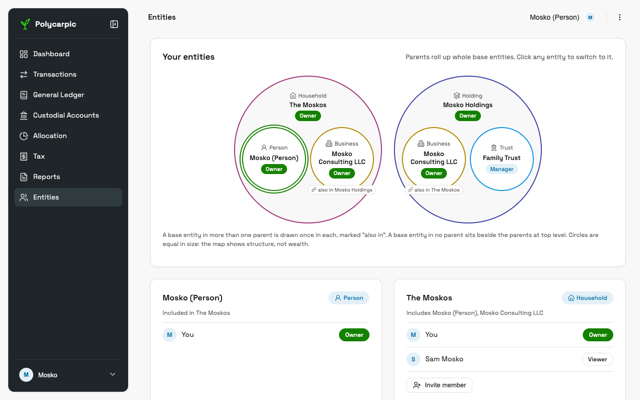
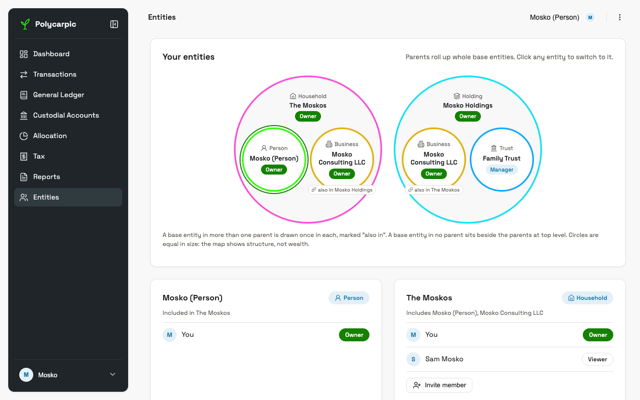
docs(design): categorical palette redone in literal brand colours
Principal ruling: the first palette read too dark and muted. Slots 1-2
are now --brand and --brand-2, unthemed; the other five match their
brightness and intensity (OKLCH L 0.71-0.84, C 0.14-0.26). Light-mode
3:1 surface contrast and the lightness band are waived and compensated
by a label, a hairline or gap, and dark label ink on every mark. CVD
separation still passes: adjacent 12.0, all-pairs over slots 1-5 8.3.

Claude-Session: https://claude.ai/code/session_01ShccjJZnprqscE4Jea1MEf

diff --git a/docs/DESIGN/tokens.html b/docs/DESIGN/tokens.html
@@ -244,44 +244,45 @@
 
 <section id="categorical" data-section="categorical">
   <h2>7. Categorical (identity, not magnitude)</h2>
-  <p class="section-hint group-note">Seven hues in a fixed order plus a neutral Other, for charts where colour says <em>which thing</em>: treemaps, Pack, Sankey, grouped and stacked bars. The <code>--chart</code> ramp above stays the magnitude ramp. Slot 1 is the brand green and slot 2 the brand sky blue; the other five sit around them on the wheel and skip the status hues (red, orange, gain green). Each slot has a <code>-foreground</code> label ink that clears AA on the fill. Figures are contrast vs <code>--background</code> / <code>--card</code> in that mode, then the label ink and its ratio. Validated with the dataviz skill's <code>validate_palette.js</code>, both modes — see design-system-spec.md § Categorical palette.</p>
+  <p class="section-hint group-note">Seven hues in a fixed order plus a neutral Other, for charts where colour says <em>which thing</em>: treemaps, Pack, Sankey, grouped and stacked bars. The <code>--chart</code> ramp above stays the magnitude ramp. Slot 1 is <code>--brand</code> and slot 2 is <code>--brand-2</code>, literally; the other five match their brightness and intensity and skip the status hues (red, orange, gain green). The fills are the same in both modes; each slot has a dark <code>-foreground</code> label ink that clears AA on the fill. Figures are contrast vs <code>--background</code> / <code>--card</code> in that mode, then the label ink and its ratio. Validated with the dataviz skill's <code>validate_palette.js</code>, both modes — see design-system-spec.md § Categorical palette.</p>
   <table class="token-table">
     <thead><tr><th>Token</th><th>Light</th><th>Dark</th><th>Fixed assignment</th></tr></thead>
     <tbody>
       <tr><td><code>--cat-1</code></td>
-        <td class="pair"><div class="mode"><span class="chip" style="background:#148100;color:#FFFFFF;display:flex;align-items:center;justify-content:center;font-size:0.7rem;font-weight:600">Aa</span><span class="hex">#148100 (4.75 / 5.04)</span><span class="hex">label white 5.04</span></div></td>
-        <td class="pair"><div class="mode"><span class="chip" style="background:#4BA341;color:#070808;display:flex;align-items:center;justify-content:center;font-size:0.7rem;font-weight:600">Aa</span><span class="hex">#4BA341 (6.32 / 6.09)</span><span class="hex">label dark 6.32</span></div></td>
-        <td>Green — brand anchor (= light <code>--primary</code>). Assets · Person · US Equity.</td></tr>
+        <td class="pair"><div class="mode"><span class="chip" style="background:#2CFF05;color:#1D1F20;box-shadow:inset 0 0 0 1px var(--border);display:flex;align-items:center;justify-content:center;font-size:0.7rem;font-weight:600">Aa</span><span class="hex">#2CFF05 (1.29 / 1.36)</span><span class="hex">label dark 12.15</span></div></td>
+        <td class="pair"><div class="mode"><span class="chip" style="background:#2CFF05;color:#070808;box-shadow:inset 0 0 0 1px var(--border);display:flex;align-items:center;justify-content:center;font-size:0.7rem;font-weight:600">Aa</span><span class="hex">#2CFF05 (14.72 / 14.18)</span><span class="hex">label dark 14.72</span></div></td>
+        <td>Neon green — <code>--brand</code>, literal. Assets · Person · US Equity.</td></tr>
       <tr><td><code>--cat-2</code></td>
-        <td class="pair"><div class="mode"><span class="chip" style="background:#0C96DF;color:#1D1F20;display:flex;align-items:center;justify-content:center;font-size:0.7rem;font-weight:600">Aa</span><span class="hex">#0C96DF (3.07 / 3.26)</span><span class="hex">label fg 5.08</span></div></td>
-        <td class="pair"><div class="mode"><span class="chip" style="background:#009EED;color:#070808;display:flex;align-items:center;justify-content:center;font-size:0.7rem;font-weight:600">Aa</span><span class="hex">#009EED (6.79 / 6.55)</span><span class="hex">label dark 6.79</span></div></td>
-        <td>Sky blue — brand anchor (= light <code>--chart-1</code>). Liabilities · Trust · Intl Equity.</td></tr>
+        <td class="pair"><div class="mode"><span class="chip" style="background:#05A9FF;color:#1D1F20;box-shadow:inset 0 0 0 1px var(--border);display:flex;align-items:center;justify-content:center;font-size:0.7rem;font-weight:600">Aa</span><span class="hex">#05A9FF (2.44 / 2.58)</span><span class="hex">label dark 6.40</span></div></td>
+        <td class="pair"><div class="mode"><span class="chip" style="background:#05A9FF;color:#070808;box-shadow:inset 0 0 0 1px var(--border);display:flex;align-items:center;justify-content:center;font-size:0.7rem;font-weight:600">Aa</span><span class="hex">#05A9FF (7.76 / 7.48)</span><span class="hex">label dark 7.76</span></div></td>
+        <td>Sky blue — <code>--brand-2</code>, literal. Liabilities · Trust · Intl Equity.</td></tr>
       <tr><td><code>--cat-3</code></td>
-        <td class="pair"><div class="mode"><span class="chip" style="background:#B18900;color:#1D1F20;display:flex;align-items:center;justify-content:center;font-size:0.7rem;font-weight:600">Aa</span><span class="hex">#B18900 (3.07 / 3.26)</span><span class="hex">label fg 5.08</span></div></td>
-        <td class="pair"><div class="mode"><span class="chip" style="background:#7E6100;color:#F2F2F3;display:flex;align-items:center;justify-content:center;font-size:0.7rem;font-weight:600">Aa</span><span class="hex">#7E6100 (3.43 / 3.31)</span><span class="hex">label fg 5.22</span></div></td>
+        <td class="pair"><div class="mode"><span class="chip" style="background:#E2B003;color:#1D1F20;box-shadow:inset 0 0 0 1px var(--border);display:flex;align-items:center;justify-content:center;font-size:0.7rem;font-weight:600">Aa</span><span class="hex">#E2B003 (1.90 / 2.01)</span><span class="hex">label dark 8.23</span></div></td>
+        <td class="pair"><div class="mode"><span class="chip" style="background:#E2B003;color:#070808;box-shadow:inset 0 0 0 1px var(--border);display:flex;align-items:center;justify-content:center;font-size:0.7rem;font-weight:600">Aa</span><span class="hex">#E2B003 (9.97 / 9.61)</span><span class="hex">label dark 9.97</span></div></td>
         <td>Gold. Equity · Business · Fixed Income.</td></tr>
       <tr><td><code>--cat-4</code></td>
-        <td class="pair"><div class="mode"><span class="chip" style="background:#A1367B;color:#FFFFFF;display:flex;align-items:center;justify-content:center;font-size:0.7rem;font-weight:600">Aa</span><span class="hex">#A1367B (5.95 / 6.31)</span><span class="hex">label white 6.31</span></div></td>
-        <td class="pair"><div class="mode"><span class="chip" style="background:#C6589C;color:#070808;display:flex;align-items:center;justify-content:center;font-size:0.7rem;font-weight:600">Aa</span><span class="hex">#C6589C (5.04 / 4.86)</span><span class="hex">label dark 5.04</span></div></td>
+        <td class="pair"><div class="mode"><span class="chip" style="background:#FF49D8;color:#1D1F20;box-shadow:inset 0 0 0 1px var(--border);display:flex;align-items:center;justify-content:center;font-size:0.7rem;font-weight:600">Aa</span><span class="hex">#FF49D8 (2.75 / 2.92)</span><span class="hex">label dark 5.67</span></div></td>
+        <td class="pair"><div class="mode"><span class="chip" style="background:#FF49D8;color:#070808;box-shadow:inset 0 0 0 1px var(--border);display:flex;align-items:center;justify-content:center;font-size:0.7rem;font-weight:600">Aa</span><span class="hex">#FF49D8 (6.87 / 6.62)</span><span class="hex">label dark 6.87</span></div></td>
         <td>Magenta. Income · Household · Cash.</td></tr>
       <tr><td><code>--cat-5</code></td>
-        <td class="pair"><div class="mode"><span class="chip" style="background:#3D43A8;color:#FFFFFF;display:flex;align-items:center;justify-content:center;font-size:0.7rem;font-weight:600">Aa</span><span class="hex">#3D43A8 (7.72 / 8.18)</span><span class="hex">label white 8.18</span></div></td>
-        <td class="pair"><div class="mode"><span class="chip" style="background:#505AC8;color:#F2F2F3;display:flex;align-items:center;justify-content:center;font-size:0.7rem;font-weight:600">Aa</span><span class="hex">#505AC8 (3.47 / 3.35)</span><span class="hex">label fg 5.16</span></div></td>
-        <td>Indigo. Expense · Holding.</td></tr>
+        <td class="pair"><div class="mode"><span class="chip" style="background:#06E5F7;color:#1D1F20;box-shadow:inset 0 0 0 1px var(--border);display:flex;align-items:center;justify-content:center;font-size:0.7rem;font-weight:600">Aa</span><span class="hex">#06E5F7 (1.46 / 1.55)</span><span class="hex">label dark 10.68</span></div></td>
+        <td class="pair"><div class="mode"><span class="chip" style="background:#06E5F7;color:#070808;box-shadow:inset 0 0 0 1px var(--border);display:flex;align-items:center;justify-content:center;font-size:0.7rem;font-weight:600">Aa</span><span class="hex">#06E5F7 (12.95 / 12.48)</span><span class="hex">label dark 12.95</span></div></td>
+        <td>Cyan. Expense · Holding.</td></tr>
       <tr><td><code>--cat-6</code></td>
-        <td class="pair"><div class="mode"><span class="chip" style="background:#009E98;color:#1D1F20;display:flex;align-items:center;justify-content:center;font-size:0.7rem;font-weight:600">Aa</span><span class="hex">#009E98 (3.12 / 3.31)</span><span class="hex">label fg 5.00</span></div></td>
-        <td class="pair"><div class="mode"><span class="chip" style="background:#009E98;color:#070808;display:flex;align-items:center;justify-content:center;font-size:0.7rem;font-weight:600">Aa</span><span class="hex">#009E98 (6.06 / 5.84)</span><span class="hex">label dark 6.06</span></div></td>
-        <td>Teal. Sixth series by first appearance.</td></tr>
+        <td class="pair"><div class="mode"><span class="chip" style="background:#C67EFF;color:#1D1F20;box-shadow:inset 0 0 0 1px var(--border);display:flex;align-items:center;justify-content:center;font-size:0.7rem;font-weight:600">Aa</span><span class="hex">#C67EFF (2.53 / 2.68)</span><span class="hex">label dark 6.17</span></div></td>
+        <td class="pair"><div class="mode"><span class="chip" style="background:#C67EFF;color:#070808;box-shadow:inset 0 0 0 1px var(--border);display:flex;align-items:center;justify-content:center;font-size:0.7rem;font-weight:600">Aa</span><span class="hex">#C67EFF (7.48 / 7.20)</span><span class="hex">label dark 7.48</span></div></td>
+        <td>Violet. Sixth series by first appearance.</td></tr>
       <tr><td><code>--cat-7</code></td>
-        <td class="pair"><div class="mode"><span class="chip" style="background:#824EB4;color:#FFFFFF;display:flex;align-items:center;justify-content:center;font-size:0.7rem;font-weight:600">Aa</span><span class="hex">#824EB4 (5.36 / 5.68)</span><span class="hex">label white 5.68</span></div></td>
-        <td class="pair"><div class="mode"><span class="chip" style="background:#9A66CF;color:#070808;display:flex;align-items:center;justify-content:center;font-size:0.7rem;font-weight:600">Aa</span><span class="hex">#9A66CF (4.94 / 4.76)</span><span class="hex">label dark 4.94</span></div></td>
-        <td>Violet. Seventh series by first appearance.</td></tr>
+        <td class="pair"><div class="mode"><span class="chip" style="background:#FF67A4;color:#1D1F20;box-shadow:inset 0 0 0 1px var(--border);display:flex;align-items:center;justify-content:center;font-size:0.7rem;font-weight:600">Aa</span><span class="hex">#FF67A4 (2.56 / 2.72)</span><span class="hex">label dark 6.09</span></div></td>
+        <td class="pair"><div class="mode"><span class="chip" style="background:#FF67A4;color:#070808;box-shadow:inset 0 0 0 1px var(--border);display:flex;align-items:center;justify-content:center;font-size:0.7rem;font-weight:600">Aa</span><span class="hex">#FF67A4 (7.38 / 7.11)</span><span class="hex">label dark 7.38</span></div></td>
+        <td>Rose. Seventh series by first appearance.</td></tr>
       <tr><td><code>--cat-other</code></td>
-        <td class="pair"><div class="mode"><span class="chip" style="background:#78736E;color:#FFFFFF;display:flex;align-items:center;justify-content:center;font-size:0.7rem;font-weight:600">Aa</span><span class="hex">#78736E (4.43 / 4.69)</span><span class="hex">label white 4.69</span></div></td>
-        <td class="pair"><div class="mode"><span class="chip" style="background:#7C8387;color:#070808;display:flex;align-items:center;justify-content:center;font-size:0.7rem;font-weight:600">Aa</span><span class="hex">#7C8387 (5.21 / 5.02)</span><span class="hex">label dark 5.21</span></div></td>
+        <td class="pair"><div class="mode"><span class="chip" style="background:#A8A39D;color:#1D1F20;box-shadow:inset 0 0 0 1px var(--border);display:flex;align-items:center;justify-content:center;font-size:0.7rem;font-weight:600">Aa</span><span class="hex">#A8A39D (2.36 / 2.50)</span><span class="hex">label dark 6.61</span></div></td>
+        <td class="pair"><div class="mode"><span class="chip" style="background:#A8A39D;color:#070808;box-shadow:inset 0 0 0 1px var(--border);display:flex;align-items:center;justify-content:center;font-size:0.7rem;font-weight:600">Aa</span><span class="hex">#A8A39D (8.01 / 7.72)</span><span class="hex">label dark 8.01</span></div></td>
         <td>Neutral. Every series from the eighth on, folded into one “Other”.</td></tr>
     </tbody>
   </table>
+  <p class="section-hint group-note"><strong>Light-mode surface contrast is waived for categorical fills by Principal ruling.</strong> The 3:1 rule would darken the brand colours out of the set, so these fills sit at 1.29–2.92:1 on the light surfaces. Three things compensate on every mark: it carries a visible label or legend; it has a 1px <code>--border</code> hairline, or a 2px surface gap against a neighbouring fill; and its label ink is dark, AA on the fill. Telling the slots apart is not waived: the colour-blindness and normal-vision checks pass.</p>
   <p class="section-hint group-note"><strong>Colour follows the entity, never its rank.</strong> The accounting elements (Assets, Liabilities, Equity, Income, Expense) and the entity types (Person, Trust, Business, Household, Holding) both use slots 1–5; they never share a chart. Asset classes use slots 1–4 and a sub-category takes its parent’s slot. Anything else (transaction categories, Sankey flows) is assigned in order of first appearance, persisted, and folds into <code>--cat-other</code> from the eighth on.</p>
 </section>
 

diff --git a/docs/DESIGN/tokens.css b/docs/DESIGN/tokens.css
@@ -118,31 +118,32 @@
 
   /* Categorical palette: identity, not magnitude (the --chart ramp stays
      the magnitude ramp). Seven hues in a fixed order plus a neutral
-     Other; colour follows the entity, never its rank. Hue is OKLCH:
-     cat-1 is --primary itself (brand green, H 142), cat-2 is --chart-1
-     (brand sky blue, H 242); the rest sit around them at C 0.11-0.17
-     (gold 88, magenta 345, indigo 275, teal 190, violet 305), skipping the
-     status arcs (red ~29, orange ~48, positive green ~150). Lightness
-     alternates between a white-ink and a dark-ink step, which is what
-     separates neighbours under colour-blindness. Validated with the
-     dataviz skill's validate_palette.js on --card and --background:
-     adjacent (7) worst CVD dE 8.7, normal-vision 19.5; all-pairs over
-     cat-1..5 CVD 7.1 (floor band: labels required), normal 19.1. Every
-     slot >= 3:1 on --background (tightest 3.07:1, cat-2/cat-3). Each
-     slot's -foreground is its AA label ink (ratio on the line). cat-1 sits
-     4.4 dE from --positive: categorical fills never carry gain/loss.
+     Other; colour follows the entity, never its rank. Principal ruling:
+     the brand colours themselves, and five more at their brightness and
+     intensity. cat-1 and cat-2 ARE --brand and --brand-2; the other five
+     sit at OKLCH L 0.71-0.84, C 0.14-0.26, each at or near the sRGB limit
+     for its hue (the brand pair measures L 0.87/0.71, C 0.29/0.17), and
+     skip the status arcs (red ~29, orange ~48, positive green ~150-162).
+     Same values in both modes; only the label ink changes, in the dark
+     block below. Validated with the dataviz skill's validate_palette.js:
+     adjacent (7) worst CVD dE 12.0, normal-vision 16.3; all-pairs over
+     cat-1..5 CVD 8.3, normal 17.1. WAIVED by the same ruling: the 3:1
+     surface contrast on light surfaces (tightest 1.29:1, neon on
+     --background) and the mode lightness band. Compensated on every
+     mark: a label or legend, a 1px --border hairline or a 2px surface
+     gap, and the dark label ink on the line (AA on the fill).
      design-system-spec.md § Categorical palette has the full method. */
-  --cat-1: #148100; --cat-1-foreground: #FFFFFF; /* green,   5.04:1 */
-  --cat-2: #0C96DF; --cat-2-foreground: #1D1F20; /* sky,     5.08:1 */
-  --cat-3: #B18900; --cat-3-foreground: #1D1F20; /* gold,    5.08:1 */
-  --cat-4: #A1367B; --cat-4-foreground: #FFFFFF; /* magenta, 6.31:1 */
-  --cat-5: #3D43A8; --cat-5-foreground: #FFFFFF; /* indigo,  8.18:1 */
-  --cat-6: #009E98; --cat-6-foreground: #1D1F20; /* teal,    5.00:1 */
-  --cat-7: #824EB4; --cat-7-foreground: #FFFFFF; /* violet,  5.68:1 */
+  --cat-1: var(--brand);   --cat-1-foreground: #1D1F20; /* neon green, 12.15:1 */
+  --cat-2: var(--brand-2); --cat-2-foreground: #1D1F20; /* sky,         6.40:1 */
+  --cat-3: #E2B003;        --cat-3-foreground: #1D1F20; /* gold,        8.23:1 */
+  --cat-4: #FF49D8;        --cat-4-foreground: #1D1F20; /* magenta,     5.67:1 */
+  --cat-5: #06E5F7;        --cat-5-foreground: #1D1F20; /* cyan,       10.68:1 */
+  --cat-6: #C67EFF;        --cat-6-foreground: #1D1F20; /* violet,      6.17:1 */
+  --cat-7: #FF67A4;        --cat-7-foreground: #1D1F20; /* rose,        6.09:1 */
   /* Other: the 8th+ series folded together. Neutral (warm, like
-     --muted-foreground) so it never reads as an eighth hue; 4.43:1 on
-     --background, 4.69:1 on --card. */
-  --cat-other: #78736E; --cat-other-foreground: #FFFFFF; /* 4.69:1 */
+     --muted-foreground), at the set's brightness but with no chroma, so
+     it never reads as an eighth hue. */
+  --cat-other: #A8A39D;    --cat-other-foreground: #1D1F20; /* 6.61:1 */
 
   /* Sidebar: inverted relative to the page (a dark card on the light page)
      and tinted with the same blue as the neutral scale, so the whole
@@ -228,21 +229,18 @@
   --chart-4: #16A7F3;
   --chart-5: #0B89CB;
 
-  /* Categorical palette, dark steps: same seven hues, same slot order as
-     :root, re-stepped into the dark band (OKLCH L 0.48-0.67). cat-1 is
-     the brand green pulled down from the neon into the band; cat-2 the
-     brand sky likewise. Validated on --card and --background: adjacent (7)
-     worst CVD dE 10.5, normal-vision 21.3; all-pairs over cat-1..5 CVD
-     10.7, normal 17.6. Every slot >= 3:1 on --card (tightest cat-3
-     3.31:1). Label ink per slot on the line. */
-  --cat-1: #4BA341; --cat-1-foreground: #070808; /* green,   6.32:1 */
-  --cat-2: #009EED; --cat-2-foreground: #070808; /* sky,     6.79:1 */
-  --cat-3: #7E6100; --cat-3-foreground: #F2F2F3; /* gold,    5.22:1 */
-  --cat-4: #C6589C; --cat-4-foreground: #070808; /* magenta, 5.04:1 */
-  --cat-5: #505AC8; --cat-5-foreground: #F2F2F3; /* indigo,  5.16:1 */
-  --cat-6: #009E98; --cat-6-foreground: #070808; /* teal,    6.06:1 */
-  --cat-7: #9A66CF; --cat-7-foreground: #070808; /* violet,  4.94:1 */
-  --cat-other: #7C8387; --cat-other-foreground: #070808; /* 5.21:1; 5.02:1 on --card */
+  /* Categorical palette: the --cat-N fills are the :root values, unthemed
+     like --brand itself. Every slot >= 6.62:1 on --card here, so the
+     surface checks pass in dark mode; only the label ink changes, to the
+     dark page colour (ratio on the line). */
+  --cat-1-foreground: #070808;     /* 14.72:1 */
+  --cat-2-foreground: #070808;     /*  7.76:1 */
+  --cat-3-foreground: #070808;     /*  9.97:1 */
+  --cat-4-foreground: #070808;     /*  6.87:1 */
+  --cat-5-foreground: #070808;     /* 12.95:1 */
+  --cat-6-foreground: #070808;     /*  7.48:1 */
+  --cat-7-foreground: #070808;     /*  7.38:1 */
+  --cat-other-foreground: #070808; /*  8.01:1 */
 
   /* Sidebar: inverted the other way in dark mode, a LIGHT card on the dark
      page, close to the light canvas tone. The ring uses a derived blue

diff --git a/docs/DESIGN/screen.css b/docs/DESIGN/screen.css
@@ -1451,7 +1451,8 @@ table.data-table tr.opening td { color: var(--muted-foreground); font-style: ita
 .alloc-row .alloc-figs { font-family: var(--font-mono); font-variant-numeric: tabular-nums; font-size: 13px; color: var(--muted-foreground); text-align: right; }
 .alloc-row .badge { justify-self: end; }
 .alloc-track { position: relative; height: 10px; border-radius: 999px; background: var(--muted); }
-.alloc-track .alloc-fill { position: absolute; inset: 0 auto 0 0; border-radius: 999px; }
+.alloc-track .alloc-fill { position: absolute; inset: 0 auto 0 0; border-radius: 999px; box-shadow: inset 0 0 0 1px var(--border); }
+.alloc-name .dot { box-shadow: 0 0 0 1px var(--border); }
 .alloc-track .alloc-target { position: absolute; top: -4px; bottom: -4px; width: 2px; background: var(--foreground); border-radius: 1px; }
 .alloc-legend { display: flex; gap: 16px; font-size: 12px; color: var(--muted-foreground); }
 .alloc-legend span { display: inline-flex; align-items: center; gap: 6px; }
@@ -1531,8 +1532,10 @@ table.data-table tr.opening td { color: var(--muted-foreground); font-style: ita
    900x240; the real LayerChart Treemap re-lays out on resize). Fill by
    accounting element from its fixed categorical slot (Assets --cat-1,
    Liabilities --cat-2, Equity --cat-3), each label in the slot's
-   -foreground ink: 5.04 / 5.08 / 5.08:1 light, 6.32 / 6.79 / 5.22:1
-   dark. The 1px --card tile border is the surface gap between fills. Labels
+   dark -foreground ink: 12.15 / 6.40 / 8.23:1 light, 14.72 / 7.76 /
+   9.97:1 dark. The 1px --card tile border is the surface gap between
+   fills (2px between two tiles), and the inset --border hairline edges
+   the bright fills on white. Labels
    clip by container query: value hidden under 96x38, label under 64x22.
    Colour is never alone: every tile carries its name (or a title/aria
    label when too small), and the halves are captioned above. Padding
@@ -1542,10 +1545,10 @@ table.data-table tr.opening td { color: var(--muted-foreground); font-style: ita
 .tm-cols > span { display: flex; align-items: center; gap: 6px; flex-wrap: wrap; }
 .tm-cols .mono { color: var(--muted-foreground); font-weight: 400; }
 .tm-plus { color: var(--muted-foreground); }
-.tm-swatch { width: 10px; height: 10px; border-radius: 2px; display: inline-block; }
+.tm-swatch { width: 10px; height: 10px; border-radius: 2px; display: inline-block; box-shadow: 0 0 0 1px var(--border); }
 .tm-map { position: relative; height: 240px; }
 .tm-group { position: absolute; background: var(--border); border-radius: 4px; }
-.tm-tile { position: absolute; box-sizing: border-box; border: 1px solid var(--card); border-radius: 3px; overflow: hidden; container-type: size; text-decoration: none; color: var(--card); }
+.tm-tile { position: absolute; box-sizing: border-box; border: 1px solid var(--card); border-radius: 3px; box-shadow: inset 0 0 0 1px var(--border); overflow: hidden; container-type: size; text-decoration: none; color: var(--card); }
 .tm-inner { display: flex; flex-direction: column; gap: 2px; padding: 6px 8px; min-width: 0; }
 .tm-tile:hover { filter: brightness(1.08); }
 .tm-tile:focus-visible { outline: 2px solid var(--ring); outline-offset: 1px; z-index: 1; }
@@ -1567,8 +1570,9 @@ table.data-table tr.opening td { color: var(--muted-foreground); font-style: ita
    --card circles; a base entity in two parents appears in both with an
    "also in" chip. All circles in a level share one size: the map shows
    structure, not wealth (sizing by balance would also leak magnitude
-   across an access boundary). Each circle's 2px stroke is its entity
-   type's categorical slot (.pack-t-person … .pack-t-holding), beside
+   across an access boundary). Each circle's 3px stroke is its entity
+   type's categorical slot (.pack-t-person … .pack-t-holding), edged by
+   a 1px --border hairline, beside
    the type icon and label, so colour is never alone. The current entity
    carries a --ring outside a 3px --card gap, so a green Person stroke
    and the green ring never merge. */
@@ -1579,8 +1583,9 @@ table.data-table tr.opening td { color: var(--muted-foreground); font-style: ita
 .pack-child { position: relative; width: 128px; aspect-ratio: 1; border-radius: 50%; background: var(--card); border: 1px solid var(--border); display: flex; flex-direction: column; align-items: center; justify-content: center; gap: 4px; padding: 10px; box-sizing: border-box; text-align: center; text-decoration: none; color: var(--foreground); }
 .pack-child:hover, .pack-parent-head:hover { background: var(--accent); }
 .pack-child:focus-visible, .pack-parent-head:focus-visible { outline: 2px solid var(--ring); outline-offset: 2px; }
-.pack-current { box-shadow: 0 0 0 3px var(--card), 0 0 0 5px var(--ring); }
-.pack-parent.pack-t-household, .pack-parent.pack-t-holding, .pack-child { border-width: 2px; }
+.pack-t-person, .pack-t-trust, .pack-t-business, .pack-t-household, .pack-t-holding { box-shadow: 0 0 0 1px var(--border); }
+.pack-current { box-shadow: 0 0 0 1px var(--border), 0 0 0 3px var(--card), 0 0 0 5px var(--ring); }
+.pack-parent.pack-t-household, .pack-parent.pack-t-holding, .pack-child { border-width: 3px; }
 .pack-t-person { border-color: var(--cat-1); }
 .pack-t-trust { border-color: var(--cat-2); }
 .pack-t-business { border-color: var(--cat-3); }

diff --git a/docs/DESIGN/index.html b/docs/DESIGN/index.html
@@ -138,7 +138,7 @@
   </div>
 
   <h3 id="tokens-categorical">3.6 Categorical (identity, not magnitude)</h3>
-  <p>Seven fixed-order hues anchored on the brand green and sky blue, plus a neutral Other, for treemaps, Pack, Sankey and bars. Colour follows the entity, never its rank. Values, label inks and fixed assignments: <a href="tokens.html#categorical">tokens.html § 7</a>; method and validator results: design-system-spec.md § Categorical palette.</p>
+  <p>Seven fixed-order hues, the literal <code>--brand</code> and <code>--brand-2</code> plus five at their brightness and intensity, and a neutral Other, for treemaps, Pack, Sankey and bars. Colour follows the entity, never its rank. The light-mode 3:1 surface rule is waived for these fills, compensated by a label, a hairline or gap, and dark label ink. Values, label inks and fixed assignments: <a href="tokens.html#categorical">tokens.html § 7</a>; method and validator results: design-system-spec.md § Categorical palette.</p>
   <div class="tokens-grid">
     <div class="swatch"><span class="chip" style="background:var(--cat-1)"></span><span class="name">--cat-1</span></div>
     <div class="swatch"><span class="chip" style="background:var(--cat-2)"></span><span class="name">--cat-2</span></div>

diff --git a/docs/DESIGN/design-system-spec.md b/docs/DESIGN/design-system-spec.md
@@ -92,7 +92,7 @@ Contrast figures are computed via the standard WCAG relative-luminance formula a
 | `--input` | `#DCD8D4` | Input border — one step stronger than `--border` |
 | `--ring` | `#148100` | Focus ring — follows `--primary` |
 | `--chart-1`…`--chart-5` | `#0C96DF` → `#086291` | Sequential/magnitude ramp in `--brand-2`'s blue hue |
-| `--cat-1`…`--cat-7`, `--cat-other` | `#148100` · `#0C96DF` · `#B18900` · `#A1367B` · `#3D43A8` · `#009E98` · `#824EB4` · `#78736E` | Categorical (identity) palette, each with a `-foreground` label ink — § Categorical palette |
+| `--cat-1`…`--cat-7`, `--cat-other` | `#2CFF05` · `#05A9FF` · `#E2B003` · `#FF49D8` · `#06E5F7` · `#C67EFF` · `#FF67A4` · `#A8A39D` | Categorical (identity) palette, slots 1–2 are `--brand`/`--brand-2`, each with a dark `-foreground` label ink — § Categorical palette |
 | `--sidebar` | `#1F2528` | Inverted — a dark blue-tinted surface floating on the light page (see Sidebar) |
 | `--sidebar-foreground` | `#F2F2F3` | |
 | `--sidebar-accent` | `#303B40` | |
@@ -124,7 +124,7 @@ Contrast figures are computed via the standard WCAG relative-luminance formula a
 | `--destructive` | `#FC4F4F` | |
 | `--destructive-foreground` | `#2A0507` | |
 | `--border` | `rgba(255,255,255,0.08)` | |
-| `--cat-1`…`--cat-7`, `--cat-other` | `#4BA341` · `#009EED` · `#7E6100` · `#C6589C` · `#505AC8` · `#009E98` · `#9A66CF` · `#7C8387` | Categorical palette, dark steps, same slot order — § Categorical palette |
+| `--cat-1`…`--cat-7`, `--cat-other` | same values as light | Unthemed, like `--brand`; only the `-foreground` label ink changes, to `#070808` — § Categorical palette |
 | `--chart-1`…`--chart-5` | `#C5E9FC` → `#0B89CB` | `--brand-2`'s blue hue, lightened; `--chart-5` here equals light mode's `--chart-2` by coincidence — both ramps sample the same hue/saturation function |
 | `--sidebar` | `#F7F8F8` | Inverted the other way — a light, blue-tinted card floating on the dark page |
 | `--sidebar-foreground` | `#1D1F20` | |
@@ -143,33 +143,39 @@ Contrast figures are computed via the standard WCAG relative-luminance formula a
 
 The `--chart` ramp encodes **how much**. Treemaps, Pack, Sankey and grouped or stacked bars need colour that says **which thing**, and a one-hue ramp cannot do that (its steps sit ~1.2:1 apart). `--cat-1`…`--cat-7` plus `--cat-other` are the identity palette. Method: the dataviz skill's colour formula (four colour jobs, six checks), computed with its `validate_palette.js`, never by eye.
 
-**Hues.** Stated in OKLCH (the skill's space; the HSL hues quoted above for the brand are 110.6° / 200.6°). Slot 1 is the brand green and slot 2 the brand sky blue, so the set is anchored on the two brand hues. The other five sit around them at matched chroma (C 0.10–0.17): gold 88°, magenta 345°, indigo 275°, teal 190°, violet 305°. They skip the three status arcs, red (~29°), orange (~48°) and gain green (~150°). Seven hues, not the skill's eight: every candidate eighth hue (rose, olive, coral) lands on a status hue or on gold/green.
+**Hues: the brand colours, and five more at their brightness and intensity.** A Principal ruling sets this. Slots 1 and 2 are `--brand` and `--brand-2` themselves, literal and unthemed, and the other five match them: the brand pair measures OKLCH L 0.87 / 0.71, C 0.29 / 0.17, and every slot sits inside L 0.71–0.87. Chroma is the most sRGB allows at each hue's lightness, which is C 0.14–0.26: at their steps gold and cyan stop just short of the sky blue's 0.17. Fill values are the same in both modes. The hues skip the status arcs (red ~29°, orange ~48°, gain green ~150–162°). Seven hues, not eight: an eighth can pass the adjacent checks at the end of the order, but the only in-band candidates at least 15 ΔE from every slot in normal vision are pale pinks, off the brand's intensity and 2.1 ΔE from an existing slot under colour-blindness, so an eighth would be a near-repeat of a colour already in the set.
 
-| Slot | Hue | Light | Label ink (light) | Dark | Label ink (dark) |
-|---|---|---|---|---|---|
-| `--cat-1` | green 142° | `#148100` (= `--primary`) | `#FFFFFF` 5.04:1 | `#4BA341` | `#070808` 6.32:1 |
-| `--cat-2` | sky 242° | `#0C96DF` (= `--chart-1`) | `#1D1F20` 5.08:1 | `#009EED` | `#070808` 6.79:1 |
-| `--cat-3` | gold 88° | `#B18900` | `#1D1F20` 5.08:1 | `#7E6100` | `#F2F2F3` 5.22:1 |
-| `--cat-4` | magenta 345° | `#A1367B` | `#FFFFFF` 6.31:1 | `#C6589C` | `#070808` 5.04:1 |
-| `--cat-5` | indigo 275° | `#3D43A8` | `#FFFFFF` 8.18:1 | `#505AC8` | `#F2F2F3` 5.16:1 |
-| `--cat-6` | teal 190° | `#009E98` | `#1D1F20` 5.00:1 | `#009E98` | `#070808` 6.06:1 |
-| `--cat-7` | violet 305° | `#824EB4` | `#FFFFFF` 5.68:1 | `#9A66CF` | `#070808` 4.94:1 |
-| `--cat-other` | neutral | `#78736E` | `#FFFFFF` 4.69:1 | `#7C8387` | `#070808` 5.21:1 |
+| Slot | Hue (OKLCH) | Fill, both modes | L / C | Contrast on `--background` / `--card` (light) | Label ink (light) | Label ink (dark) |
+|---|---|---|---|---|---|---|
+| `--cat-1` | neon green 142° | `#2CFF05` (= `--brand`) | 0.87 / 0.29 | 1.29 / 1.36:1 | `#1D1F20` 12.15:1 | `#070808` 14.72:1 |
+| `--cat-2` | sky 243° | `#05A9FF` (= `--brand-2`) | 0.71 / 0.17 | 2.44 / 2.58:1 | `#1D1F20` 6.40:1 | `#070808` 7.76:1 |
+| `--cat-3` | gold 88° | `#E2B003` | 0.78 / 0.16 | 1.90 / 2.01:1 | `#1D1F20` 8.23:1 | `#070808` 9.97:1 |
+| `--cat-4` | magenta 338° | `#FF49D8` | 0.71 / 0.26 | 2.75 / 2.92:1 | `#1D1F20` 5.67:1 | `#070808` 6.87:1 |
+| `--cat-5` | cyan 205° | `#06E5F7` | 0.84 / 0.14 | 1.46 / 1.55:1 | `#1D1F20` 10.68:1 | `#070808` 12.95:1 |
+| `--cat-6` | violet 308° | `#C67EFF` | 0.72 / 0.19 | 2.53 / 2.68:1 | `#1D1F20` 6.17:1 | `#070808` 7.48:1 |
+| `--cat-7` | rose 358° | `#FF67A4` | 0.72 / 0.19 | 2.56 / 2.72:1 | `#1D1F20` 6.09:1 | `#070808` 7.38:1 |
+| `--cat-other` | neutral | `#A8A39D` | 0.72 / 0.01 | 2.36 / 2.50:1 | `#1D1F20` 6.61:1 | `#070808` 8.01:1 |
 
-**Steps.** Each mode has its own steps in the skill's lightness band (OKLCH L 0.43–0.77 light, 0.48–0.67 dark), in the same slot order. Lightness alternates between a white-ink step and a dark-ink step. That alternation, not hue, is what keeps neighbours apart under colour-blindness, and it is why the label ink differs by slot. Every slot carries an AA label (≥ 4.5:1) as its `--cat-N-foreground`, so a treemap tile or Pack circle can always be labelled on its fill. The neon `#2CFF05` is above the dark band (L 0.87) and the raw `#05A9FF` sits at its edge (L 0.71), so dark mode uses in-band steps of the same hues.
+**Order.** All 120 orders of the five non-brand hues were enumerated, with the brand pair fixed at 1–2; the order here ties for the best worst case over adjacent pairs across seven slots and all pairs across slots 1–5. In so narrow a brightness band lightness cannot do the separating alone, so step and position do. Violet stays out of slots 1–5 because it collapses onto the sky blue under colour-blindness. Gold is stepped below its brightest because at L 0.85 (`#FFC400`) it is 1.6 ΔE from the neon under colour-blindness; at L 0.78 it clears the target.
 
-**Validator results** (`validate_palette.js`, run against `--card` and `--background` in each mode; all pass, exit 0). ΔE is OKLab distance ×100; CVD is the worse of protanopia and deuteranopia (Machado 2009, severity 1.0), target ≥ 8, floor ≥ 6 with labels; normal vision must clear 15. The brand pair on its own clears it easily: light `--primary`↔`--secondary-foreground` CVD 20.6 / normal 22.6, dark `--brand`↔`--brand-2` 36.0 / 39.7.
+**Validator results** (`validate_palette.js`, run against `--card` and `--background` in each mode). ΔE is OKLab distance ×100; CVD is the worse of protanopia and deuteranopia (Machado 2009, severity 1.0), target ≥ 8, floor ≥ 6 with labels; normal vision must clear 15. Separation does not depend on the surface, so one figure holds for both modes.
 
-| Run | Light | Dark |
-|---|---|---|
-| Adjacent pairs, slots 1–7 (bars, stacks, Sankey bands) | CVD ΔE 8.7 (indigo↔magenta), normal 19.5 | CVD ΔE 10.5 (violet↔teal), normal 21.3 |
-| All pairs, slots 1–5 (treemap, Pack: any two can touch) | CVD ΔE 7.1 (gold↔green, floor band), normal 19.1 | CVD ΔE 10.7, normal 17.6 |
-| Lightness band, chroma floor | pass, all ≥ 0.10 | pass, all ≥ 0.10 |
-| Contrast vs surface (≥ 3:1) | tightest 3.07:1 on `--background` (slots 2, 3) | tightest 3.31:1 on `--card` (slot 3) |
+| Run | Result |
+|---|---|
+| Adjacent pairs, slots 1–7 (bars, stacks, Sankey bands) | **PASS**: CVD ΔE 12.0 (magenta↔cyan), normal 16.3 (violet↔rose) |
+| All pairs, slots 1–5 (treemap, Pack: any two can touch) | **PASS**: CVD ΔE 8.3 (neon↔gold), normal 17.1 (sky↔cyan) |
+| All pairs, slots 1–7 | **FAIL**: CVD ΔE 2.6 (sky↔violet), normal 10.2 (magenta↔rose). Six and seven series are for adjacent-pair forms, or direct labels on every mark |
+| Chroma floor | **PASS**: all ≥ 0.10 |
+| Contrast vs surface (≥ 3:1) | **WARN, light; waived.** 1.29–2.92:1 on `--background`/`--card`. Dark: PASS, ≥ 6.62:1 |
+| Lightness band | **FAIL, both modes; waived.** Light band 0.43–0.77: neon, gold 0.78, cyan out. Dark band 0.48–0.67: all seven out |
 
-The light all-pairs run sits in the skill's 6–8 floor band, which is legal only with secondary encoding: treemap tiles and Pack circles always carry direct labels, so it holds. Past five series, an all-pairs chart form folds to Other or facets; the palette does not grow.
+**The waiver, and what pays for it.** By Principal ruling the light-mode 3:1 surface rule and the lightness band do not apply to categorical fills: the brand colours are the palette, and darkening them is exactly what the ruling rejected. Distinctness is not waived; the separation runs above still gate. Every categorical mark pays three ways, in every mode:
 
-**Status hues stay reserved.** No slot is red, orange or gain green, and a categorical fill never carries gain/loss: when a series means good or bad it wears `--positive`/`--destructive`, never a slot (one chart never mixes both). One near-collision is accepted and measured: light `--cat-1` is the brand green, 4.4 ΔE from light `--positive` (`#147F3C`, 8° of hue apart). The pair is held apart by job: `--positive` is a text colour on signed figures with a `+`/arrow, a categorical slot is a labelled fill. In dark mode the nearest pairs are `--cat-1`↔`--positive` 18.4 and `--cat-4`↔`--destructive` 14.4.
+1. **A visible label or legend.** Colour is never alone; a chart that cannot label a mark shows it in its table view.
+2. **An edge.** A 1px `--border` hairline on the fill, and a 2px surface gap between touching fills. The hairline frames the mark rather than contrasting with it (`--border` is 1.06:1 against the neon and 1.29:1 against `--background`), so on a small mark the shape comes from the fill's saturation and the label does the identifying.
+3. **Dark label ink on the fill.** Every `--cat-N-foreground` is dark: `#1D1F20` in light mode (tightest 5.67:1, magenta) and `#070808` in dark (tightest 6.87:1, magenta), AA throughout. Text is never set in a slot colour on a light surface.
+
+**Status hues stay reserved.** No slot is red, orange or gain green, and a categorical fill never carries gain/loss: when a series means good or bad it wears `--positive`/`--destructive`, never a slot (one chart never mixes both). Status colours are text on signed figures with a `+`/arrow, and a slot is a labelled fill, so the nearest pairs are held apart by job as well as by distance: `--cat-3` gold↔dark `--warning` 10.1, `--cat-7` rose↔dark `--destructive` 10.7, `--cat-5` cyan↔dark `--positive` 11.1, `--cat-1`↔dark `--positive` 16.7.
 
 **Fixed assignments: colour follows the entity, never its rank.** Filtering a series out never repaints the survivors.
 
@@ -183,8 +189,8 @@ The accounting elements and the entity types reuse slots 1–5; the two sets nev
 
 **Usage rules (from the skill).**
 - **A legend is always present for two or more series**; direct-label selectively (the tile or band that matters, the extremes), and let the table view carry every value. A label renders inside a fill only when it fits with padding, otherwise it moves outside the mark or to the tooltip; colour is never the only channel.
-- **Separate fills with a 2px surface gap**, never a drawn border.
-- **Large blocks stay quiet:** a treemap is the exception the label inks were built for; Pack circles and wide areas take the slot as a 2px stroke on a `--card`/`--muted` fill, not a solid fill.
+- **Separate touching fills with a 2px surface gap**, and edge each mark with the 1px `--border` hairline (§ the waiver above).
+- **Large blocks stay quiet:** a treemap is the exception the label inks were built for; Pack circles and wide areas take the slot as a 3px stroke on a `--card`/`--muted` fill, not a solid fill.
 - **Texture fallback:** one "Lines" fill at 45° (and its 135° mirror), inked tone-on-tone in a darker step of the slot's own hue. Opt-in only: the accessibility setting, print, or `forced-colors`. Never decorative, never on by default.
 - **One series is one colour.** The bars of a single series all take one colour (`--chart-3`) and are never coloured by value; slots are for two or more identities.
 
@@ -485,7 +491,7 @@ A nested treemap of the chart of accounts, prototyped as a card above the tree o
 
 **What the prototype settles:**
 - **Balance sheet only, two equal halves.** Assets on the left; Liabilities + Equity on the right. The accounting equation makes the halves equal in area, so the map shows the equation itself: a reader sees at once that the halves balance. Income and Expenses are period flows, not balances; on one area scale with balances they are invisible (month-to-date $2,400 against $412,884) and they would break the equal halves. They are not on this map. An income-statement counterpart (Income | Expenses + net income, also equal halves) belongs with Reports if it is wanted.
-- **Colour by element, from the categorical slots.** Assets `--cat-1`, Liabilities `--cat-2`, Equity `--cat-3` (the accounting-element assignment, § Categorical palette), each label in its slot's `-foreground` ink: 5.04 / 5.08 / 5.08:1 in light mode, 6.32 / 6.79 / 5.22:1 in dark. The slots are distinct hues, validated all-pairs, so colour separates the elements; the halves and their captions still carry the meaning, and colour is never alone.
+- **Colour by element, from the categorical slots.** Assets `--cat-1`, Liabilities `--cat-2`, Equity `--cat-3` (the accounting-element assignment, § Categorical palette), each label in its slot's dark `-foreground` ink: 12.15 / 6.40 / 8.23:1 in light mode, 14.72 / 7.76 / 9.97:1 in dark. Tiles keep a 1px `--border` hairline and a 2px `--card` gap (§ Categorical palette → the waiver). The slots are distinct hues, validated all-pairs, so colour separates the elements; the halves and their captions still carry the meaning, and colour is never alone.
 - **Credit-balance accounts are fine.** Liabilities and Equity carry credit-normal balances; |balance| gives them positive area on their own side.
 - **Labels are fixed-size HTML, clipped by container query:** the value hides under 96×38px, the name under 64×22px; an unlabelled tile names itself on hover, focus and to assistive tech (full path in its accessible name). Text inside a scaled SVG `viewBox` shrinks with the card and is unreadable at 960px, so labels must not scale with the layout.
 
@@ -567,7 +573,7 @@ See `styled-screens/allocation.html`, `styled-screens/reports.html`, `styled-scr
 
 **The entity switcher** (header entity selector) is always present: every user holds at least their own Person entity. It lists every entity the user holds membership on, base and parent, with each parent's included base entities nested beneath it; a base entity in two parents is listed under both. An included entity the user has no membership on is listed with a lock, and selecting it opens the boundary panel.
 
-**Roll-up map (Entities).** A card above the membership list draws every entity the user holds membership on as a **Pack** (LayerChart `Pack`, d3.pack, for frontend-lead): parents as `--muted` circles, each holding its base entities as `--card` circles; each circle's 2px stroke is its entity type's categorical slot (Person `--cat-1`, Trust `--cat-2`, Business `--cat-3`, Household `--cat-4`, Holding `--cat-5`), with the type icon and label beside it, so colour is never alone; a base entity in no parent sits at top level. A base entity in several parents is drawn once in each, with an "also in <parent>" chip; there is no overlap geometry. Each circle shows the type icon and label, name and role badge, and switches to that entity on click; the current entity carries a `--ring` outside a 3px `--card` gap, so it never merges with a green Person stroke. **Circles are equal in size per level:** the map shows structure, not wealth. Sizing by balance would shrink small entities past legibility and would leak magnitude across the access boundary. The membership list below stays the accessible fallback, each card with an Includes / Included in line. Dashboard roll-ups may likewise list an included entity under each parent it belongs to.
+**Roll-up map (Entities).** A card above the membership list draws every entity the user holds membership on as a **Pack** (LayerChart `Pack`, d3.pack, for frontend-lead): parents as `--muted` circles, each holding its base entities as `--card` circles; each circle's 3px stroke is its entity type's categorical slot (Person `--cat-1`, Trust `--cat-2`, Business `--cat-3`, Household `--cat-4`, Holding `--cat-5`), edged by a 1px `--border` hairline, with the type icon and label beside it, so colour is never alone; a base entity in no parent sits at top level. A base entity in several parents is drawn once in each, with an "also in <parent>" chip; there is no overlap geometry. Each circle shows the type icon and label, name and role badge, and switches to that entity on click; the current entity carries a `--ring` outside a 3px `--card` gap, so it never merges with a green Person stroke. **Circles are equal in size per level:** the map shows structure, not wealth. Sizing by balance would shrink small entities past legibility and would leak magnitude across the access boundary. The membership list below stays the accessible fallback, each card with an Includes / Included in line. Dashboard roll-ups may likewise list an included entity under each parent it belongs to.
 
 See `styled-screens/entities.html`.
 
